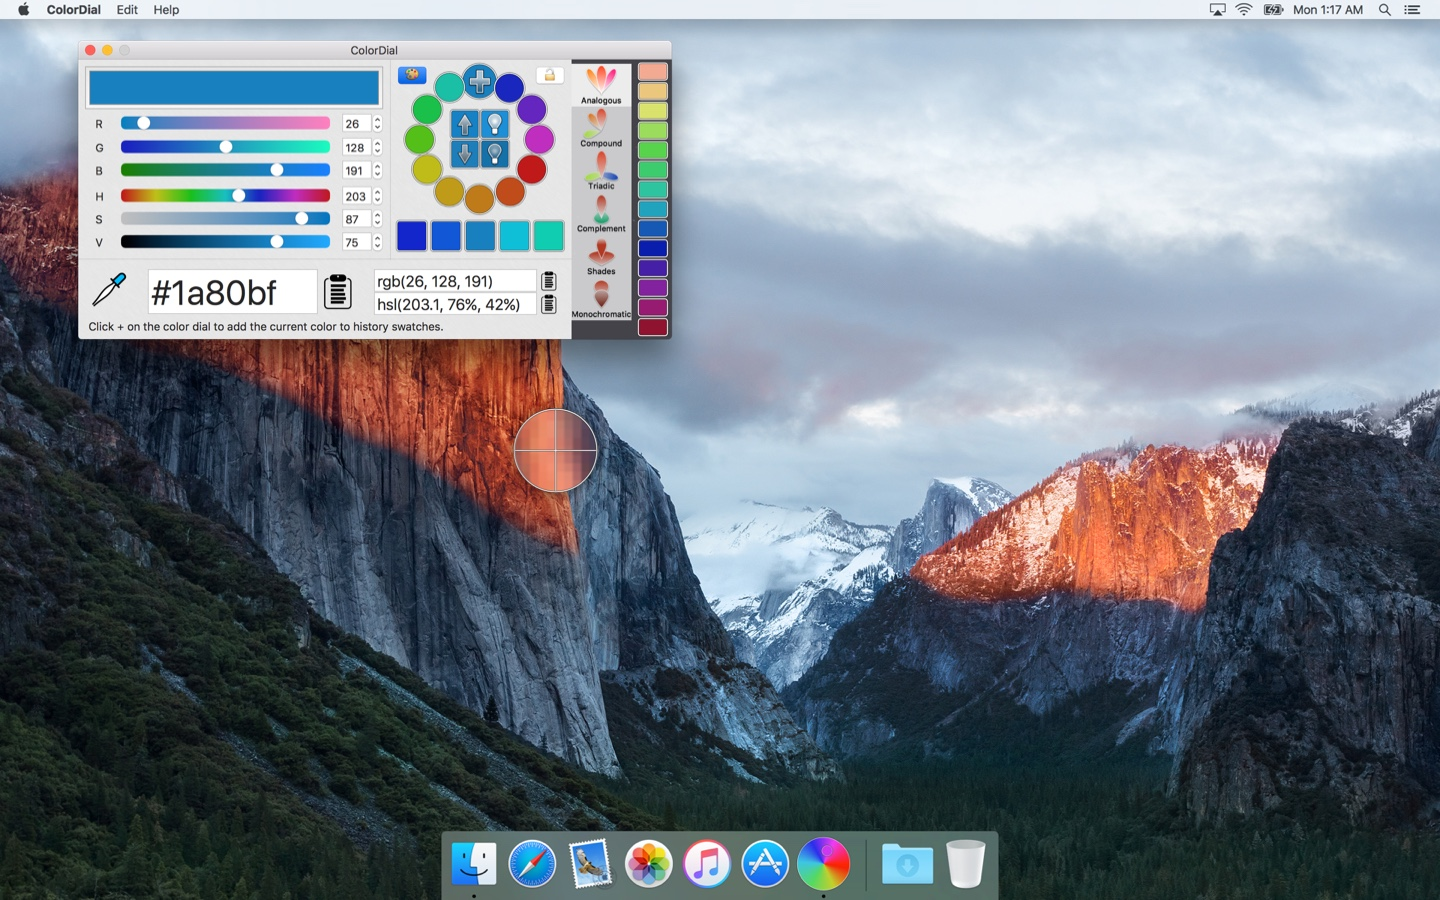
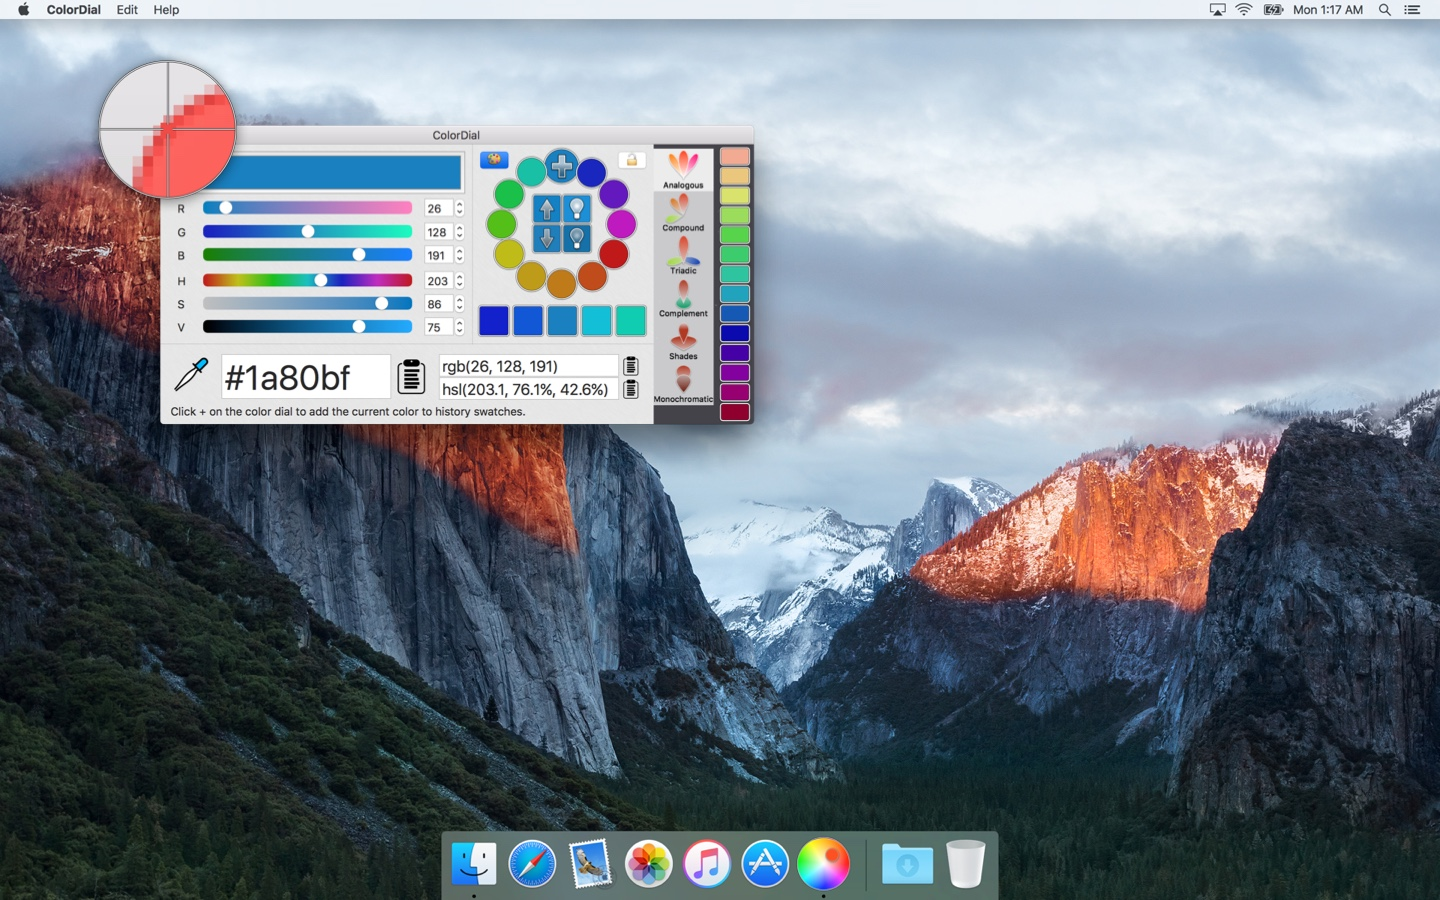
Enable parsing of rgb and hsl text inputs

Changed region(s): [[0.0312, 0.0311, 0.5312, 0.56], [0.5312, 0.9333, 0.5938, 0.9956]]

diff --git a/ColorDial/ViewController.swift b/ColorDial/ViewController.swift
@@ -249,6 +249,8 @@ class ViewController: NSViewController, ColorSupplyDelegate, NSWindowDelegate, N
     var editingTextType: String = ""
     
     var hexPattern: Regex = Regex("^#?([\\da-z]{3}|[\\da-z]{6,})$")
+    var rgbPattern: Regex = Regex("([\\d\\.]+),\\s*([\\d\\.]+),\\s*([\\d\\.]+)")
+    var hslPattern: Regex = Regex("([\\d\\.]+),\\s*([\\d\\.]+)%?,\\s*([\\d\\.]+)%?")
     
     override func controlTextDidChange(obj: NSNotification) {
         if let field = obj.object as? NSTextField {
@@ -323,14 +325,66 @@ class ViewController: NSViewController, ColorSupplyDelegate, NSWindowDelegate, N
             vValue = clampTo(vSlider.integerValue)
             updateSliders(false)
             break
+        case rgbText:
+            let value = sender.stringValue
+            let matches = rgbPattern.match(value)
+            
+            if matches.count > 0 {
+                if let r = Double(matches[0].stringAtRange(value, 1)) {
+                    if let g = Double(matches[0].stringAtRange(value, 2)) {
+                        if let b = Double(matches[0].stringAtRange(value, 3)) {
+                            let rv = clamp(CGFloat(r / 255))
+                            let gv = clamp(CGFloat(g / 255))
+                            let bv = clamp(CGFloat(b / 255))
+                            
+                            rgbText.textColor = NSColor.textColor()
+                            if rv == rFloat && gv == gFloat && bv == bFloat { return }
+
+                            rFloat = rv
+                            gFloat = gv
+                            bFloat = bv
+                            updateSliders(true)
+                            return
+                        }
+                    }
+                }
+            }
+            rgbText.textColor = NSColor(red: 176/255, green: 37/255, blue: 12/255, alpha: 1)
+            break
+        case hslText:
+            let value = sender.stringValue
+            let matches = hslPattern.match(value)
+            
+            if matches.count > 0 {
+                if let h = Double(matches[0].stringAtRange(value, 1)) {
+                    if let s = Double(matches[0].stringAtRange(value, 2)) {
+                        if let l = Double(matches[0].stringAtRange(value, 3)) {
+                            let hsl = NSColor.colorWith(clamp(CGFloat(h/360)), saturation: clamp(CGFloat(s/100)), lightness: clamp(CGFloat(l/100)), alpha: 1)
+                            
+                            let rv = hsl.redComponent
+                            let gv = hsl.greenComponent
+                            let bv = hsl.blueComponent
+                            
+                            hslText.textColor = NSColor.textColor()
+                            if rv == rFloat && gv == gFloat && bv == bFloat { return }
+
+                            rFloat = hsl.redComponent
+                            gFloat = hsl.greenComponent
+                            bFloat = hsl.blueComponent
+                            updateSliders(true)
+                            return
+                        }
+                    }
+                }
+            }
+            hslText.textColor = NSColor(red: 176/255, green: 37/255, blue: 12/255, alpha: 1)
+            break
         case hexText:
             let value = sender.stringValue
             let matches = hexPattern.match(value)
             
             if matches.count > 0 {
-                let nsrange = matches[0].rangeAtIndex(1)
-                let range = value.rangeFromNSRange(nsrange)
-                let code = value.substringWithRange(range!)
+                let code = matches[0].stringAtRange(value, 1)
                 
                 if (code.characters.count == 3) {
                     let r = code.hexNibbleAt(0) * 17
@@ -617,6 +671,8 @@ class ViewController: NSViewController, ColorSupplyDelegate, NSWindowDelegate, N
         pickerWin.backgroundColor = NSColor.clearColor()
         pickerWin.level = Int(CGWindowLevelForKey(.MaximumWindowLevelKey))
         pickerWin.contentView?.addSubview(picker)
+        pickerWin.hasShadow = true
+        pickerWin.invalidateShadow()
 
         hexText.window?.makeFirstResponder(nil)
 
@@ -741,7 +797,7 @@ class ViewController: NSViewController, ColorSupplyDelegate, NSWindowDelegate, N
 
             if (s < 0.001) { ccMinus.hidden = true; } else if (ccMinus.hidden) { ccMinus.hidden = false; }
             
-            hslText.stringValue = String(format: "hsl(%0.1f, %0.0f%%, %0.0f%%)", h*360, s*100, l*100)
+            hslText.stringValue = String(format: "hsl(%0.1f, %0.1f%%, %0.1f%%)", h*360, s*100, l*100)
         }
 
         let h = lockedColor.hueComponent * 360

diff --git a/ColorDial/Regex.swift b/ColorDial/Regex.swift
@@ -20,6 +20,14 @@ extension String {
     }
 }
 
+extension NSTextCheckingResult {
+    func stringAtRange(value: String, _ index: Int) -> String {
+        let nsrange = self.rangeAtIndex(index)
+        let range = value.rangeFromNSRange(nsrange)
+        return value.substringWithRange(range!)
+    }
+}
+
 class Regex {
     let internalExpression: NSRegularExpression
     let pattern: String
